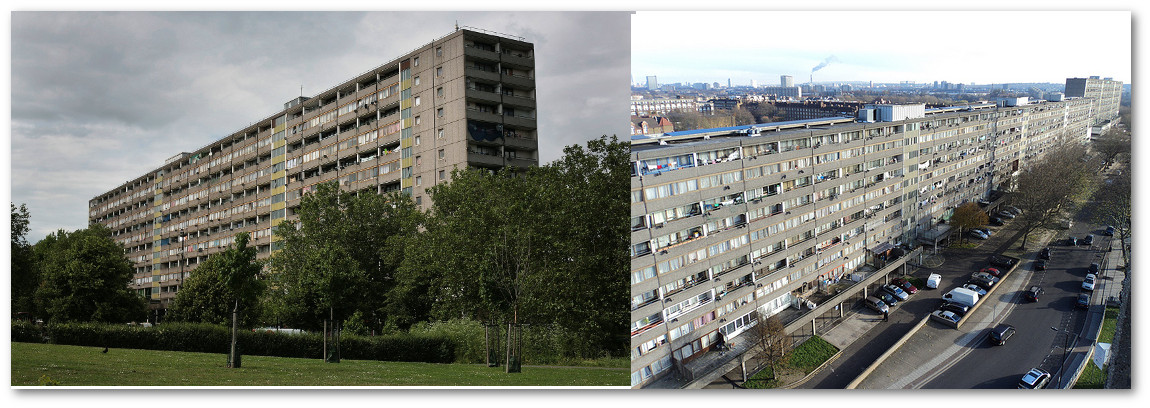
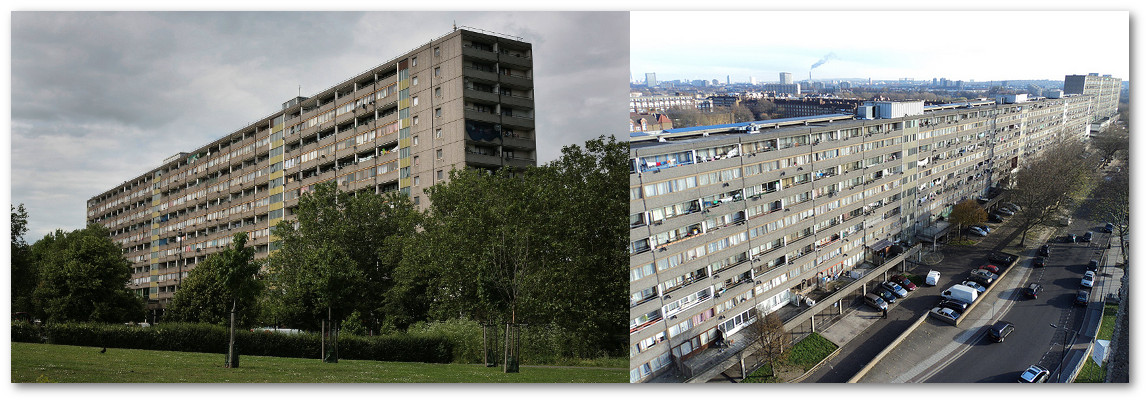
phase1

Changed region(s): [[0.0, 0.0896, 1.0, 0.9552], [0.5793, 0.5075, 0.6098, 0.5373], [0.3963, 0.0597, 0.4268, 0.0896]]

diff --git a/aap.md b/aap.md
@@ -33,6 +33,8 @@ The blocks were designed such that there was free movement on ground level under
 
 Our objective is submit an application for a CERTIFICATE OF APPROPRIATE ALTERNATIVE DEVELOPMENT under SECTION 17 OF THE PLANNING COMPENSATION ACT 1991 and present the alternative plan to the CPO public inquiry for the Wendover phase in late 2018.  
 
+![](/img/phase1.jpg)
+*Wendover blocks highlighted in yellow*
 
 ## Similar refurb projects
 
